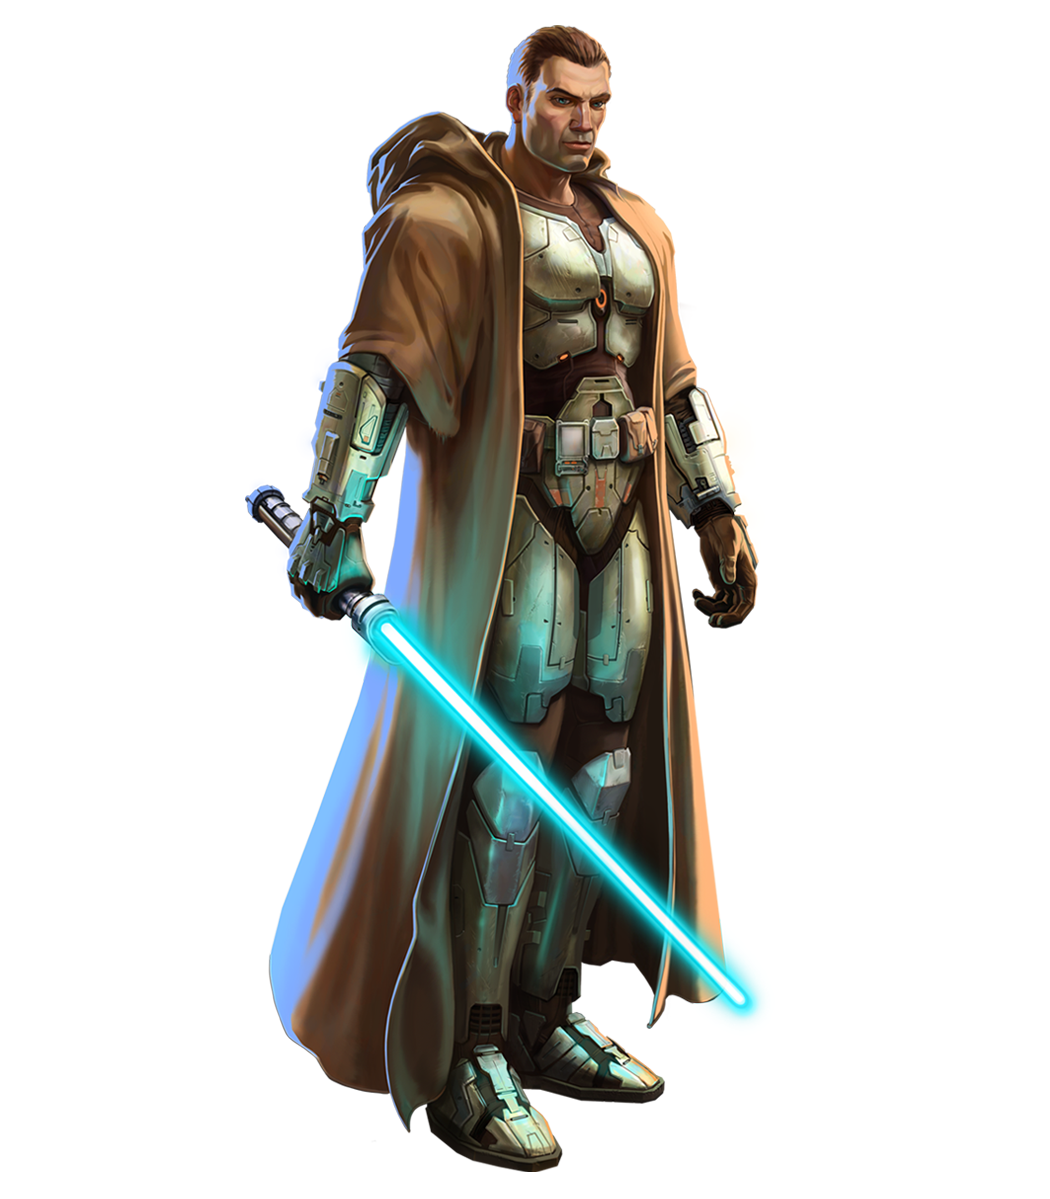
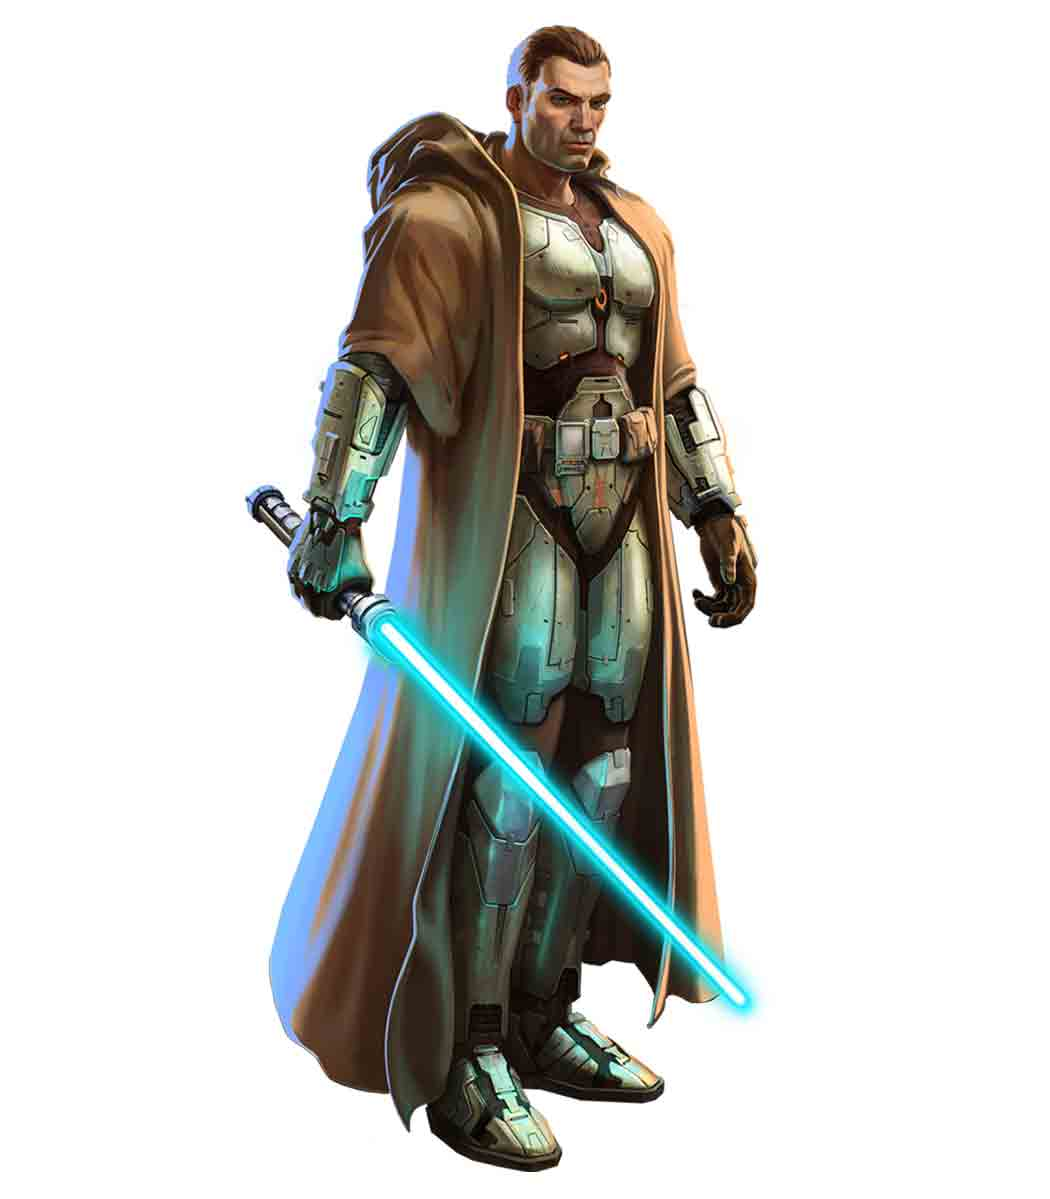
optimized images for web; created authoring statement in readme

diff --git a/index.html b/index.html
@@ -3,6 +3,7 @@
 <head>
 	<meta charset="utf-8">
 	<title>SWTOR Guild Fansite: Legion of the Republic</title>
+	<link rel="stylesheet" href="css/main.css">
 <body>
 	<h1>SWTOR Fansite: Legion of the Republic</h1>
 	<h2>Republic guild playing on the Hedarr Soongh PVP Server</h2>
